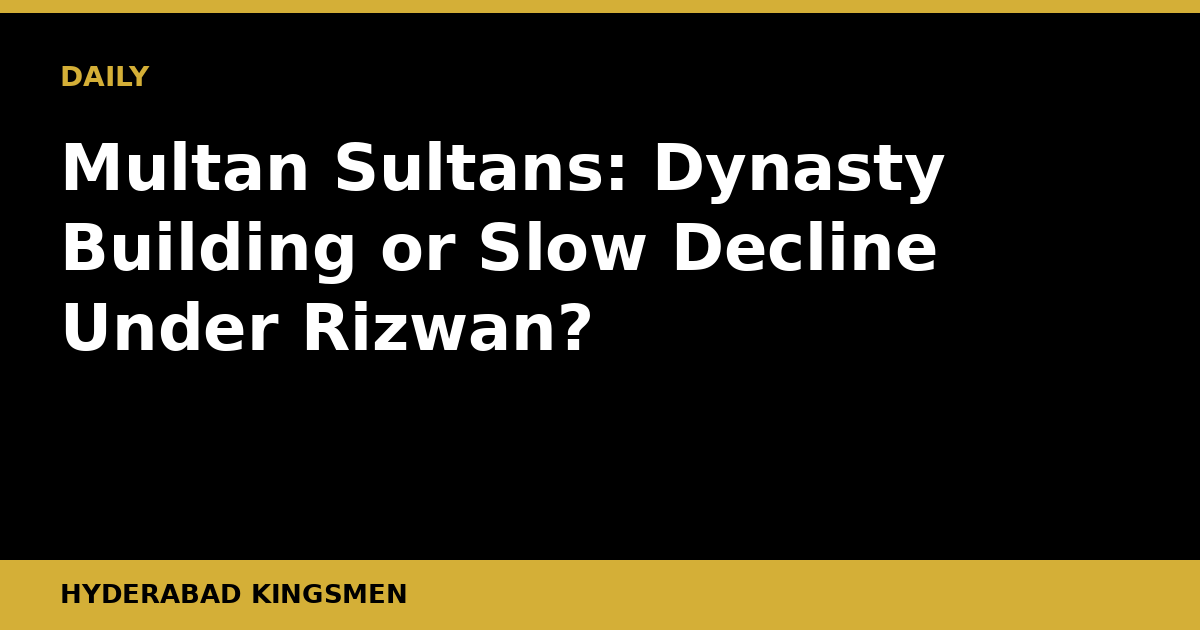
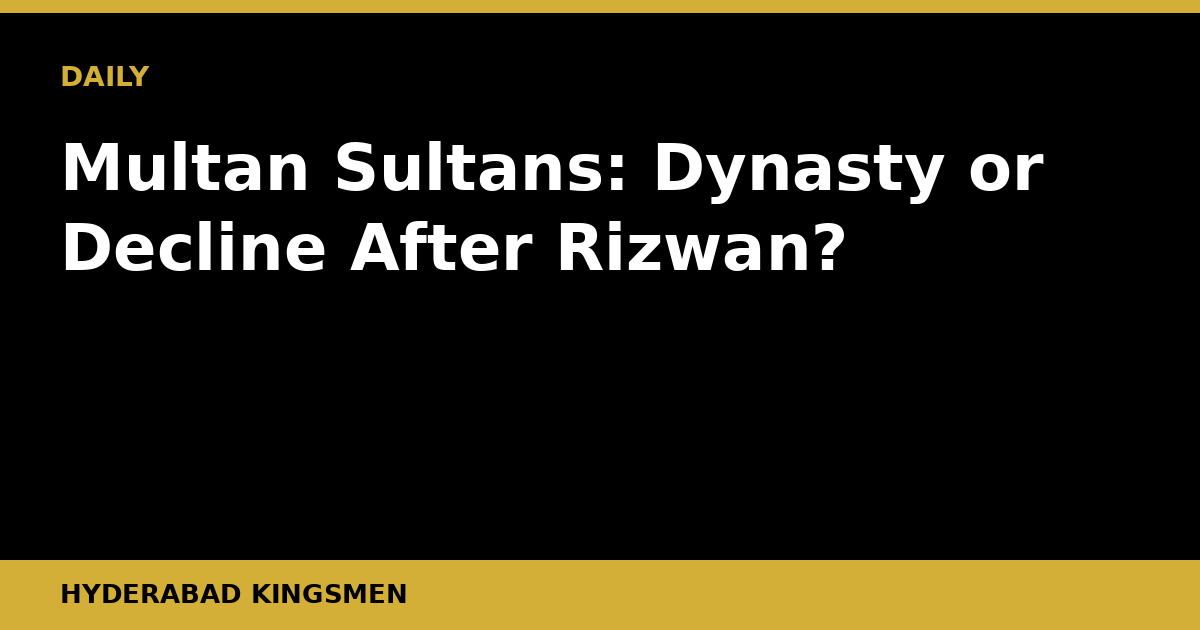
Daily post 2026-08-17

Changed region(s): [[0.0617, 0.3317, 0.8017, 0.4524], [0.0308, 0.4825, 0.4933, 0.573], [0.8017, 0.2413, 0.8942, 0.3016]]

diff --git a/content/posts/multan-sultans-rizwan-era-dynasty-or-decline.md b/content/posts/multan-sultans-rizwan-era-dynasty-or-decline.md
@@ -1,55 +1,51 @@
 ---
-title: "Multan Sultans: Dynasty Building or Slow Decline Under Rizwan?"
+title: "Multan Sultans: Dynasty or Decline After Rizwan?"
 slug: "multan-sultans-rizwan-era-dynasty-or-decline"
-date: "2026-07-12T04:22:14+05:00"
+date: "2026-08-17T02:16:08+05:00"
 draft: false
-description: "Mohammad Rizwan has led Multan Sultans to back-to-back PSL titles, but questions are mounting about whether this franchise can sustain its dominance or whether cracks are already forming."
+description: "Mohammad Rizwan built Multan Sultans into PSL's most dominant force, but cracks are showing. Is the franchise entering a new era or beginning a slow slide?"
 banner: "/banners/multan-sultans-rizwan-era-dynasty-or-decline.png"
 kicker: "ANALYSIS"
 author: "Hyderabad Kingsmen"
 translationKey: "multan-sultans-rizwan-era-dynasty-or-decline"
-tags: ["psl", "multan-sultans", "mohammad-rizwan", "pakistan-cricket", "psl-captaincy", "franchise-cricket", "t20-cricket"]
+tags: ["psl", "multan-sultans", "mohammad-rizwan", "pakistan-cricket", "franchise-cricket", "psl-captaincy", "t20-cricket"]
 categories: ["Analysis"]
 ---
 
-Mohammad Rizwan has done things at Multan Sultans that no captain in PSL history has managed quite so convincingly. Back-to-back titles. A culture of relentless professionalism. A franchise that, for a period, felt genuinely unbeatable. But the more interesting question right now is not what Rizwan has already built. It is whether it holds.
+Mohammad Rizwan handed back the Multan Sultans captaincy after leading them to back-to-back PSL titles in 2021 and 2022, and the question hanging over Multan ever since is a simple but uncomfortable one: was it the system, or was it the man?
 
-## The Architecture of a Mini-Dynasty
+## The Rizwan Factor Is Bigger Than People Admit
 
-The Sultans under Rizwan are not an accident. The franchise has been deliberate about its identity: disciplined fielding, top-heavy batting anchored by Rizwan himself, and a bowling attack assembled around skill rather than star power. Khushdil Shah's lower-order hitting, Usama Mir's wrist spin, Ihsanullah's raw pace. These are not names that dominate headlines, but together they form a functional, cohesive unit.
+When Rizwan took charge at Multan, the franchise was a mid-table outfit searching for identity. What followed was a transformation that had as much to do with leadership culture as it did with squad depth. Rizwan's relentless intensity, his public commitment to team-first cricket, and his refusal to treat PSL as anything less than a Test series set a tone that filtered through the dressing room.
 
-That cohesion is Rizwan's fingerprint. He is a demanding leader, famously intense, and Multan have mirrored that energy. When other franchises were cycling through overseas marquee signings and hoping for the best, Multan were quietly building squad depth and a recognisable brand of cricket.
+The two consecutive titles were not flukes. They were built on disciplined batting, smart overseas selections, and an uncanny ability to win close games. That last part matters enormously in a T20 competition where margins are razor-thin and momentum is currency.
 
-Two titles in succession is not luck. It is process.
+The numbers tell part of the story. During those title-winning campaigns, Multan had the most cohesive top-order in the competition and regularly defended or chased totals that comparable squads would have found awkward. Rizwan himself averaged well above forty in both seasons while keeping wicket at a high level. He was not just the captain. He was the load-bearing wall.
 
-## Where the Questions Begin
+## What Came After
 
-Here is the problem with dynasty talk in the PSL: the draft and retention system means roster continuity is difficult to sustain. The very players who carried Multan through those title runs are now assets that rival franchises covet and the points economy may price out of Rizwan's reach.
+Since the back-to-back titles, Multan's results have been respectable but no longer dominant. They have remained competitive, retained quality overseas signings, and kept a recognisable core of Pakistan internationals. But the aura of inevitability that surrounded the franchise between 2021 and 2022 has quietly faded.
 
-There is also the matter of Rizwan himself. His value to Pakistan's national setup across all three formats places enormous physical and mental demands on him. He is not just a PSL captain. He is Pakistan's first-choice wicketkeeper-batter in Tests, ODIs, and T20Is, carrying the national team's batting at a time when the top order remains unsettled. That workload does not get lighter.
+Some of this is natural regression. Every dynasty in franchise cricket faces it. Opponents study you, draft picks dry up once rivals identify your strengths, and the motivational edge that comes from building something blunts once the thing is built. Multan are not in crisis. They are, however, no longer the benchmark.
 
-Captains who are also the best player in the side tend to find that sustaining both roles simultaneously becomes harder as the years accumulate. Rizwan is still at or near his peak, but the window is not infinite.
+The captaincy transition also revealed something. Leadership in franchise cricket is not a tap you switch off and on. The habits of decision-making under pressure, the read on when to attack and when to hold, the trust players place in the person at slip or behind the stumps, all of that takes time to rebuild with a new captain. Multan have been working through that process.
 
-Then there is the broader competitive landscape. The PSL is becoming more balanced. Lahore Qalandars have invested heavily in their own infrastructure. The Hyderabad Kingsmen, as a new franchise still carving out their identity, represent exactly the kind of disruptive force that can upset settled hierarchies. New rosters, fresh overseas picks, and an absence of complacency can be dangerous for a champion side that other franchises have now had multiple seasons to study and prepare for.
+## The Wider Context: PSL Has Levelled Up
 
-Multan have film on them now. Everyone knows how Rizwan bats, how he sets fields, which bowlers he trusts in the powerplay. The counter-strategies are being built.
+It would be unfair to frame Multan's relative decline purely as an internal failure. The PSL as a competition has matured significantly. Lahore Qalandars found their own dynasty formula. Karachi Kings and Islamabad United continue to attract elite overseas talent. Peshawar Zalmi and Quetta Gladiators have invested smartly in domestic depth. The Hyderabad Kingsmen, the newest franchise, are adding further competition for quality players at the draft.
 
-## What a Sustained Dynasty Actually Requires
+In short, the PSL is harder to win now than it was in 2021 and 2022. The talent ceiling across franchises has risen. Multan winning two titles in that environment was a significant achievement. Not repeating it immediately is not evidence of collapse.
 
-For Multan to convert two titles into something that genuinely earns the word dynasty, a few things need to happen.
+But the franchise does face genuine strategic questions. Rizwan is no longer the centrally dominant figure he once was at the club. Pakistan's broader white-ball setup has evolved around him differently at national level. Where Multan go from here depends heavily on whether their management can replicate the cultural infrastructure Rizwan built, rather than simply chasing his personal statistics as a template.
 
-First, the squad needs to evolve without losing its character. The retention calls in the coming cycles will define whether this era has legs. Losing one or two of the core bowling options could unravel the balance quickly.
+## What to Watch
 
-Second, the franchise needs a genuine succession plan in the batting order. If Rizwan has an off tournament, who absorbs that pressure? Right now, the answer is not obvious enough.
+Three things will define whether Multan reclaim dynasty status or settle into competent also-rans.
 
-Third, and perhaps most critically, Multan need a defining overseas import who can consistently deliver in the back half of an innings. Their overseas selections have been competent but rarely match-winning. In a knockout game, that gap can cost you everything.
+First, their overseas picks. In both title seasons, Multan's foreign selections punched above their reputation and fitted the team's style precisely. That kind of scouting intelligence is difficult to maintain and worth watching closely.
 
-## What to Watch Next
+Second, the emergence of a genuine homegrown match-winner from within the squad. Every great franchise era needs someone who grows inside the system and becomes irreplaceable. Multan currently lack that player post-Rizwan dominance.
 
-The upcoming PSL season's auction and retention decisions will be the clearest signal of where this Multan project is headed. Watch which players the franchise fights hardest to keep, because that will reveal whether management believes the current core is still the core.
+Third, captaincy stability and clarity. A franchise cannot operate at peak level while cycling through leadership models. Multan need to commit to a captain and build around him across at least two to three seasons.
 
-Watch also how Rizwan performs for Pakistan in the intervening international schedule. A fatigued or out-of-form Rizwan arriving at the PSL is a very different proposition to the one who has lifted the trophy twice.
-
-And keep an eye on the franchises around Multan. If Lahore, Karachi, or even a resurgent Kingsmen come in with sharper planning and hungrier squads, the Sultans will be tested in a way the last two seasons simply did not require.
-
-Dynasty or decline. Right now, it is genuinely too close to call, and that in itself tells you something about where Multan stand.
+The Rizwan era at Multan Sultans was real, it was earned, and it left a genuine legacy. Whether it proves to be a foundation or merely a peak depends on decisions being made right now, in meetings that have nothing to do with cricket and everything to do with vision.
